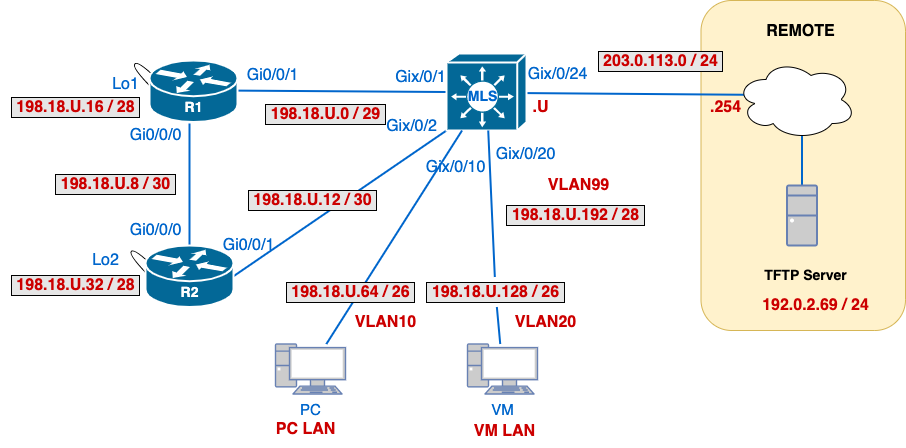
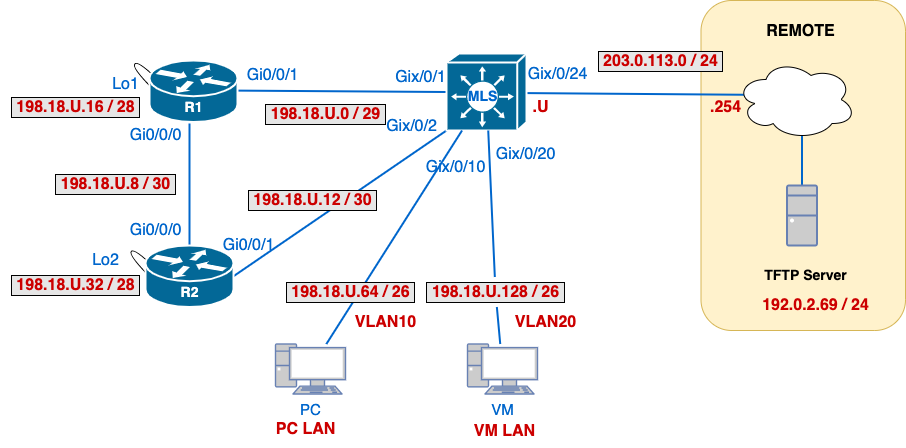
01-Lab-Review updated for 25S-CST8371

Changed region(s): [[0.5563, 0.375, 0.7108, 0.5312]]

diff --git a/25S-CST8371/01-Lab-Review/README.md b/25S-CST8371/01-Lab-Review/README.md
@@ -31,7 +31,6 @@ Together, static and default routes form the foundation for scalable, secure, an
 |         | Gix/0/2         | `198.18.U.13/30`  | To R2                  |
 |         | VLAN10          | `198.18.U.65/26`  | Default Gateway for PC |
 |         | VLAN20          | `198.18.U.129/26` | Default Gateway for VM |
-|         | VLAN99          | `198.18.U.193/28` | Switch management      |
 |         | Gix/0/10        | -                 | Access port VLAN 10    |
 |         | Gix/0/20        | -                 | Access port VLAN 20    |
 | **R1**  | Gi0/0/1         | `198.18.U.2/29`   | To MLS                 |
@@ -54,16 +53,16 @@ Together, static and default routes form the foundation for scalable, secure, an
 - [ ] Only the `01-username.txt`will be graded even if the running configs are submitted.
 ### 1. Initial Setup for all Devices
 - [ ] Hostnames: `username-<devicename>R` (eg: *ayal0014-R1*)
-- [ ] Protect privileged exec with password class stored with strong encryption
+- [ ] Protect privileged exec with password `class` stored with strong encryption
 - [ ] Disable dns lookups
 - [ ] Configure the console line to minimize disruptions caused by log messages.
 - [ ] On the vty lines: enable SSHv2 access using the domain `cnap.cst` authenticating with `admin / cisco`.
 - [ ] Switches must be configured with `vtp mode transparent`
 - [ ] Routers must be configured with `(config)# no ip tftp source-interface`
 ### 2. MLS: VLAN, SVIs and Port Configuration
-- [ ] Create VLAN 10, 20, 99 and 666, use VLAN names as `username-<VLANID>`(eg: `ayal0014-VLAN10`).  All VLANs should have your `username` pre-appended to the device name!
-- [ ] Assign SVIs IP addresses  to VLAN 10, 20 and 99
-- [ ] Place PC on VLAN 10, VM on VLAN 20
+- [ ] Create VLAN 10, 20, and 666, use VLAN names as `username-<VLANID>`(eg: `ayal0014-VLAN10`).  All VLANs should have your `username` pre-appended to the device name!
+- [ ] Assign SVIs IP addresses  to VLAN 10 and VLAN 20.
+- [ ] Place PC on VLAN 10 and VM on VLAN 20.
 - [ ] Shutdown all interfaces that are not in use and move them to VLAN 666.  
 - [ ] No port should be in VLAN 1
 ### 3. Addressing Configuration
@@ -78,7 +77,7 @@ You will take a **systematic approach** to configure routing in the network: set
 
 ### 1. MLS (Multilayer Switch)
 
-**MLS** acts as the **edge router** in your student topology. In real-world deployments, this is the device that typically connects your internal network to an upstream provider — such as an ISP or core router. Since **MLS doesn't have detailed knowledge of all external destinations**, it uses a **default route** to send unknown traffic toward the **REMOTE** network, which handles Internet-bound or external routing.
+**MLS** acts as the **edge router** in your student topology. In real-world deployments, this is the device that typically connects your internal network to an upstream provider, such as an ISP or core router. Since **MLS doesn't have detailed knowledge of all external destinations**, it uses a **default route** to send unknown traffic toward the **REMOTE** network, which handles Internet-bound or external routing.
 
 Additionally, MLS is responsible for **inter-VLAN routing via Switch Virtual Interfaces (SVIs)**. VLAN 10 and VLAN 20 are configured locally, so any traffic between them is routed internally through the MLS — no additional static routes are required for those segments.
 ##### 📌 Why Use Fully Specified Routes?
@@ -88,12 +87,14 @@ When dealing with **multi-access networks**, such as the link between **MLS** an
 #### ✅ Configuration Tasks for MLS
 
 - [ ] Configure a **fully specified default route** towards the REMOTE network.
-- [ ] Confirm that the **PC in VLAN 10 can ping the VM in VLAN 20**
-- [ ] Confirm that the **PC in VLAN 10 can ping the TFTP server**
+- [ ] Configure a **fully specified route** towards **R1-Lo1**.  This route will be tested later when all **R1** routes are configured.
+- [ ] Configure a **fully specified route** towards **R2-Lo2**.  This route will be tested later when all **R2** routes are configured.
+- [ ] Confirm that the **PC in VLAN 10 can ping the VM in VLAN 20**.
+- [ ] Confirm that the **PC in VLAN 10 can ping the TFTP server**.
 
 > 💬 **Note on Return Traffic:**
 >
-> In order for replies to reach VLAN 10 or VLAN 20 from the TFTP server (or any other external network), **REMOTE must have a route back** to the `198.18.U.64/26` and `198.18.U.128/26` networks. These are globally routable test addresses and can be forwarded like real Internet traffic.
+> For replies to reach VLAN 10 or VLAN 20 from the TFTP server (or any other external network), **REMOTE must have a route back** to the `198.18.U.64/26` and `198.18.U.128/26` networks. These are globally routable test addresses and can be forwarded like real Internet traffic.
 >
 > In production, this is often handled with a **static route** or a summarized **default route** pointing back toward the student lab edge.
 
@@ -103,12 +104,15 @@ Copy the following commands in your `01-username.txt`file, under the label **CO1
 
 ```bash
   - MLS:  show vlan brief
-  - MLS:  show ip interface brief | ex una
+  - MLS:  show ip interface brief | exclude unassigned
   - PC:   ping 198.18.U.130                                !-- VM
   - PC:   ping 192.0.2.69                                  !-- TFTP
 ```
 
-Don't forget to save the file.
+> 💬 **Note:**
+> - [ ] Verify MLS' routing table.  Do not copy the routing table yet into your submission file
+> - [ ] When copying the pings, ensure you copy the last line showing `0% packet loss`.
+> - [ ] Don't forget to save the file.
 
 ---
 ### 2. R1
@@ -118,21 +122,24 @@ Now that the **MLS** has routing configured and is verified, it’s time to brin
 #### ✅ Configuration Tasks for R1
 
 - [ ] Add a **fully specified default route pointing to MLS** — this will send all unknown traffic (e.g., TFTP, REMOTE, Internet) toward the edge of the student network.
-- [ ] Ensure **R1 can communicate with VLAN 10 and VLAN 20**, using fully specified static routes.  You have to modify the routing table in MLS as well to have route backs to R1's networks.
-- [ ] Ensure **MLS** can communicate with **R1-Lo1**, using fully specified static routes.
+- [ ] Ensure **R1 can communicate with VLAN 10 and VLAN 20**.  
+	- [ ] You do not have to set up routes for the VLANs, the default route encompasses them.
 
 #### 📋 CO2 - Verification and Collection of Information
 
 Copy the following commands in your `01-username.txt`file, under the label **CO2**:
 
 ```bash
-  - R1:   ping 198.18.U.66
-  - R1:   ping 198.18.U.130 source Lo1
-  - R1:   ping 192.0.2.69
-  - MLS:  ping 198.18.U.17
+  - R1:   ping 198.18.U.66                !-- PC
+  - R1:   ping 198.18.U.130 source Lo1    !-- VM
+  - R1:   ping 192.0.2.69                 !-- TFTP server
+  - R1:   traceroute 198.18.U.33          !-- R2-Lo2
 ```
 
-Don't forget to save the file.
+> 💬 **Note:**
+> - [ ] Pinging the **VM **sourcing from the **Lo1**, tests that **MLS** has a route towards **R1-Lo1**.
+> - [ ] When copying the pings, ensure you copy the last line showing `0% packet loss`.
+> - [ ] Don't forget to save the file.
 
 ---
 
@@ -143,26 +150,28 @@ In this step, you’ll bring **R2** online as the final internal router. **R2** 
 #### ✅ Configuration Tasks for R2
 
 - [ ] Add a **fully specified default route pointing to MLS** towards REMOTE.
-- [ ] Ensure R2 can communicate with VLAN10 using a fully specified static route via R1.
-- [ ] Ensure R2 can communicate with VLAN20 using a fully specified static route via MLS.
-- [ ] Ensure R2 can communicate with R1-Lo1 using a recursive (next-hop) via R1.
-- [ ] Ensure **MLS** can communicate with **R2-Lo2**, using fully specified static routes via R2.
+- [ ] Ensure **R2** can communicate with **R1-Lo1** via **MLS**.
+- [ ] Ensure **MLS** can communicate with **R2-Lo2** via **R2**.
 
 #### 📋 CO3 - Verification and Collection of Information
 
 Copy the following commands in your `01-username.txt`file, under the label **CO3:
 
 ```bash
-  - R2:   traceroute 198.18.U.66                    ! PC
-  - R2:   traceroute 198.18.U.130 source Lo2        !-- VM
-  - R2:   ping 198.18.U.17                          !-- R1-Lo1
-  - R2:   ping 192.0.2.69                           !-- TFTP server
+  - R2:   ping 198.18.U.130 source Lo2              !-- VM
+  - R2:   traceroute 198.18.U.66                    !-- PC
+  - R2:   traceroute 198.18.U.17                    !-- R1-Lo1
+  - R2:   traceroute 192.0.2.69                     !-- TFTP server
 ```
 
 Don't forget to save the file.
 
-> 💬 **Note:** With only a default route, R1 and R2 does not need specific entries for VLANs — **MLS handles inter-VLAN routing** and forwards as long as it knows how to return traffic to R1 and R2’s interfaces.
+> 💬 **Note:** 
+> -[ ] With only a default route, **R1** and **R2** do not need specific entries for VLANs, **MLS handles inter-VLAN routing** and forwards as long as it knows how to return traffic to R1 and R2’s interfaces.
+> - [ ] When copying the pings, ensure you copy the last line showing `0% packet loss`.
+> - [ ] Don't forget to save the file.
 
+---
 ### 4. Collect Routing Information
 
 #### 📋 CO4 - Verification and Collection of Information
@@ -175,7 +184,8 @@ Copy the following commands in your `01-username.txt`file, under the label **CO4
   - R2:   show ip route | begin Gateway
 ```
 
-Don't forget to save the file.
+> 💬 **Note:** 
+> - [ ] Don't forget to save the file.
 
 ---
 
@@ -183,12 +193,12 @@ Don't forget to save the file.
 
 Submit:
 - [ ] `01-username.txt` file via TFTP upload from your PC.
-
+- [ ] Submit an empty file in BrightSpace, this file is necessary to provide feedback.
 - [ ] From each device, upload `running-config` to the TFTP:
 ```bash
 copy run tftp
 Address or name of remote host []? 192.0.2.69
-Destination filename []? yourname-R1.cfg
+Destination filename []? (ENTER)
 ```
 
 - [ ] Check uploads with:
@@ -196,7 +206,6 @@ Destination filename []? yourname-R1.cfg
 ssh cisco@192.0.2.69
 ls -l /var/tftp/yourname*
 ```
-
 - [ ] 📝 Cleanup: Be sure to `erase startup-config`, and `delete vlan.dat` before disassembly.
 
 ---
